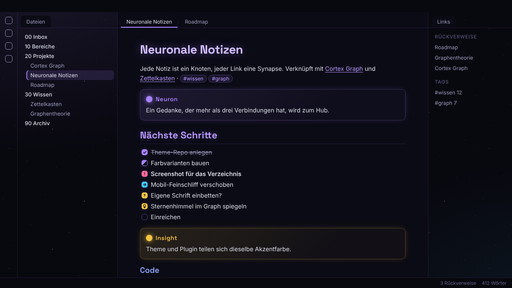
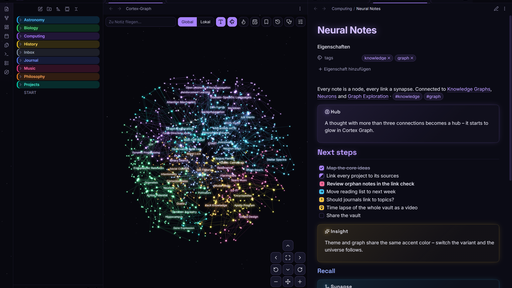
Screenshot from Obsidian, options via Cortex Graph settings

diff --git a/README.md b/README.md
@@ -57,8 +57,11 @@ A faint starfield behind the sidebars in dark mode, drawn with CSS only. Optiona
 The theme publishes `--cortex-accent`, `--cortex-accent-rgb` and `--cortex-space-bg`.
 [Cortex Graph](https://github.com/LowKI2/cortex-graph) 3.5.0+ picks them up, so glow, labels and space background of the 3D graph follow the chosen variant.
 
-## Options (Style Settings)
+## Options
 
+**With Cortex Graph (3.5.0+):** all theme options – color variant, fonts, starfield, nebula, heading glow and gradient, extra checkboxes – are in the plugin settings under *Cortex theme*. No extra plugin needed.
+
+**Without the plugin:** 
 With the [Style Settings](https://github.com/mgmeyers/obsidian-style-settings) plugin you can choose the color variant and switch off starfield, nebula, heading glow, heading gradient or the extra checkboxes, or let the stars drift.
 
 ## Install
